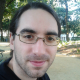
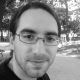
added photos of everyone

diff --git a/public/index.html b/public/index.html
@@ -111,7 +111,7 @@
                         your kid's expenses?<br/></h1>
                     <p>Give yWallet a try.</p>
                     <p>
-                        <a class="btn btn-lg btn-primary page-scroll" href="#features" role="button">READ MORE</a>
+                        <a class="btn btn-lg btn-primary page-scroll" href="#parents_features" role="button">READ MORE</a>
                         <!--<a class="caption-link" href="#" role="button">Inspinia Theme</a>-->
                     </p>
                 </div>
@@ -128,7 +128,7 @@
                 <div class="carousel-caption blank">
                     <h1>"Never spend your money<br/>&nbsp; before you have it."</h1>
                     <p>Thomas Jefferson.</p>
-                    <p><a class="btn btn-lg btn-primary" href="#" role="button">Learn more</a></p>
+                    <p><a class="btn btn-lg btn-primary page-scroll" href="#kids_features" role="button">Learn more</a></p>
                 </div>
             </div>
             <!-- Set background for slide in css -->
@@ -277,7 +277,7 @@
             <div class="row">
                 <div class="col-sm-4">
                     <div class="team-member">
-                        <a class="grey-link" href="mailto:fjsnogueira@ywallet.co"><img src="img/avatar3.jpg" class="img-responsive img-circle img-small" alt="">
+                        <a class="grey-link" href="mailto:fjsnogueira@ywallet.co"><img src="img/fernando.jpg" class="img-responsive img-circle img-small" alt="">
                         <h4><span class="navy">Fernando</span> Nogueira</h4></a>
                         <!--<p>Front-end Developer</p>
                         <ul class="list-inline social-icon">
@@ -326,7 +326,7 @@
                     <div class="row">
                 <div class="col-sm-4">
                     <div class="team-member">
-                        <a class="grey-link" href="mailto:ruipedro@ywallet.co"><img src="img/avatar3.jpg" class="img-responsive img-circle img-small" alt="">
+                        <a class="grey-link" href="mailto:ruipedro@ywallet.co"><img src="img/rui.jpg" class="img-responsive img-circle img-small" alt="">
                         <h4><span class="navy">Rui</span> Vilas Boas</h4></a>
                         <!--<p>Back-end Developer</p>
                         <ul class="list-inline social-icon">
@@ -341,7 +341,7 @@
                 </div>
                 <div class="col-sm-4">
                     <div class="team-member">
-                        <a class="grey-link" href="mailto:marcopereira@ywallet.co"><img src="img/avatar1.jpg" class="img-responsive img-circle img-small" alt="">
+                        <a class="grey-link" href="mailto:marcopereira@ywallet.co"><img src="img/marco.jpg" class="img-responsive img-circle img-small" alt="">
                         <h4><span class="navy">Marco</span> Pereira</h4></a>
                         <!--<p>Front-end Developer</p>
                         <ul class="list-inline social-icon">
@@ -375,7 +375,7 @@
             <div class="row">
                 <div class="col-sm-4">
                     <div class="team-member">
-                        <a class="grey-link" href="mailto:afsantos@ywallet.co"><img src="img/avatar3.jpg" class="img-responsive img-circle img-small" alt="">
+                        <a class="grey-link" href="mailto:afsantos@ywallet.co"><img src="img/andre.jpeg" class="img-responsive img-circle img-small" alt="">
                         <h4><span class="navy">André</span> Santos</h4></a>
                         <!--<p>Front-end Developer</p>
                         <ul class="list-inline social-icon">
@@ -390,7 +390,7 @@
                 </div>
                 <div class="col-sm-4">
                     <div class="team-member">
-                        <img src="img/avatar1.jpg" class="img-responsive img-circle img-small" alt="">
+                        <img src="img/sergio.jpg" class="img-responsive img-circle img-small" alt="">
                         <h4><span class="navy">Sérgio</span> Dias</h4>
                         <!--<p>Front-end Developer</p>
                         <ul class="list-inline social-icon">
@@ -405,7 +405,7 @@
                 </div>
                 <div class="col-sm-4">
                     <div class="team-member">
-                        <img src="img/avatar2.jpg" class="img-responsive img-circle img-small" alt="">
+                        <img src="img/nelson.jpg" class="img-responsive img-circle img-small" alt="">
                         <h4><span class="navy">Nelson</span> Moutinho</h4>
                         <!--<p>Front-end Developer</p>
                         <ul class="list-inline social-icon">
